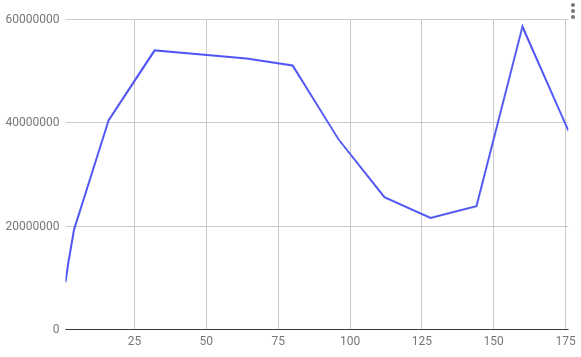
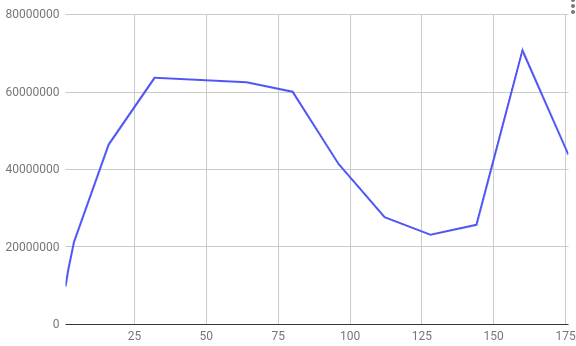
fixed wrong throughput calculation

Changed region(s): [[0.0, 0.0, 1.0, 0.9827], [0.0, 0.3179, 0.125, 0.3757], [0.0, 0.2312, 0.125, 0.289]]

diff --git a/report/report.tex b/report/report.tex
@@ -53,6 +53,8 @@
    \item \textbf{Workload Adaptive Transformation}
  \end{itemize}
 
+ numa-transformations are heuristics for determining ownership over the synchronization variable - only the cores that are on the same ``cluster`` as the owner can access the variable.
+
  We developed our code on the a \href{https://github.com/guye1296/jvm-gc-fifo/}{following GitHub repository}. The branch \textit{msqueue-shared-lib} contains the most up to date code.
 
  During our work, we encountered a LOT of difficulties - mostly during the intergation of the queues into the JVM and during the initial compilation of the project. Because of those difficulties we were not able to fully evaluate all the different queues.
@@ -197,12 +199,12 @@
 
  The GC's throughput is evaluated as:
  \begin{equation}
-	 \frac{young\_generation\_work}{total\_time\_spent\_in\_gc}
+	 \frac{young\_generation\_work}{total\_time\_spent\_in\_\_young\_gc}
  \end{equation}
 
  \begin{itemize}
    \item \textit{young generation work} is the total bytes that were transferred in the young generation
-   \item \textit{total time spent in gc} is the total execution time in the GC
+   \item \textit{total time spent in young gc} is the total execution time in young the GC generation
  \end{itemize}
 
  Luckily for us, the initial author had already printed these values (and more) in the JVM exit point:
